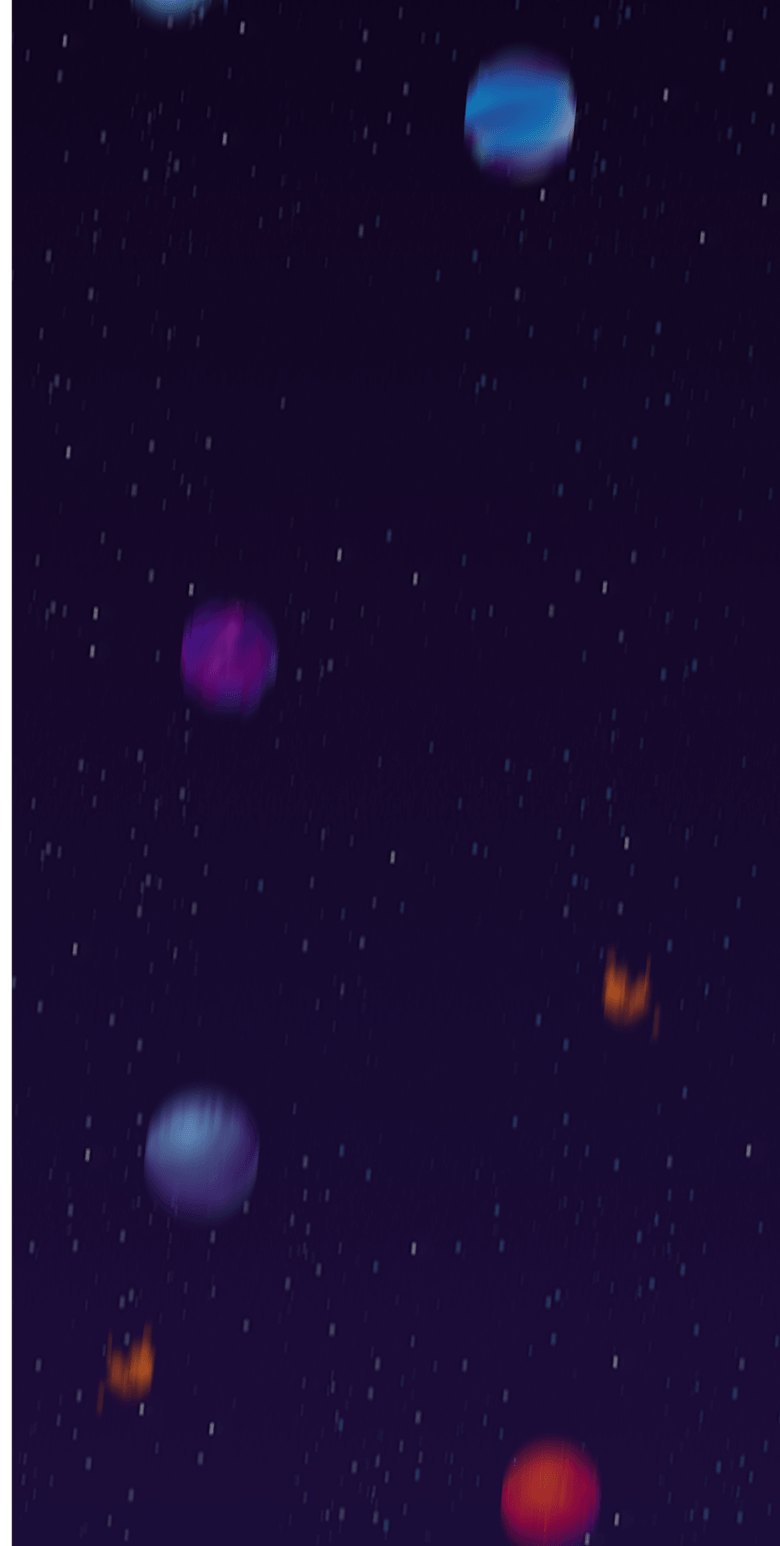
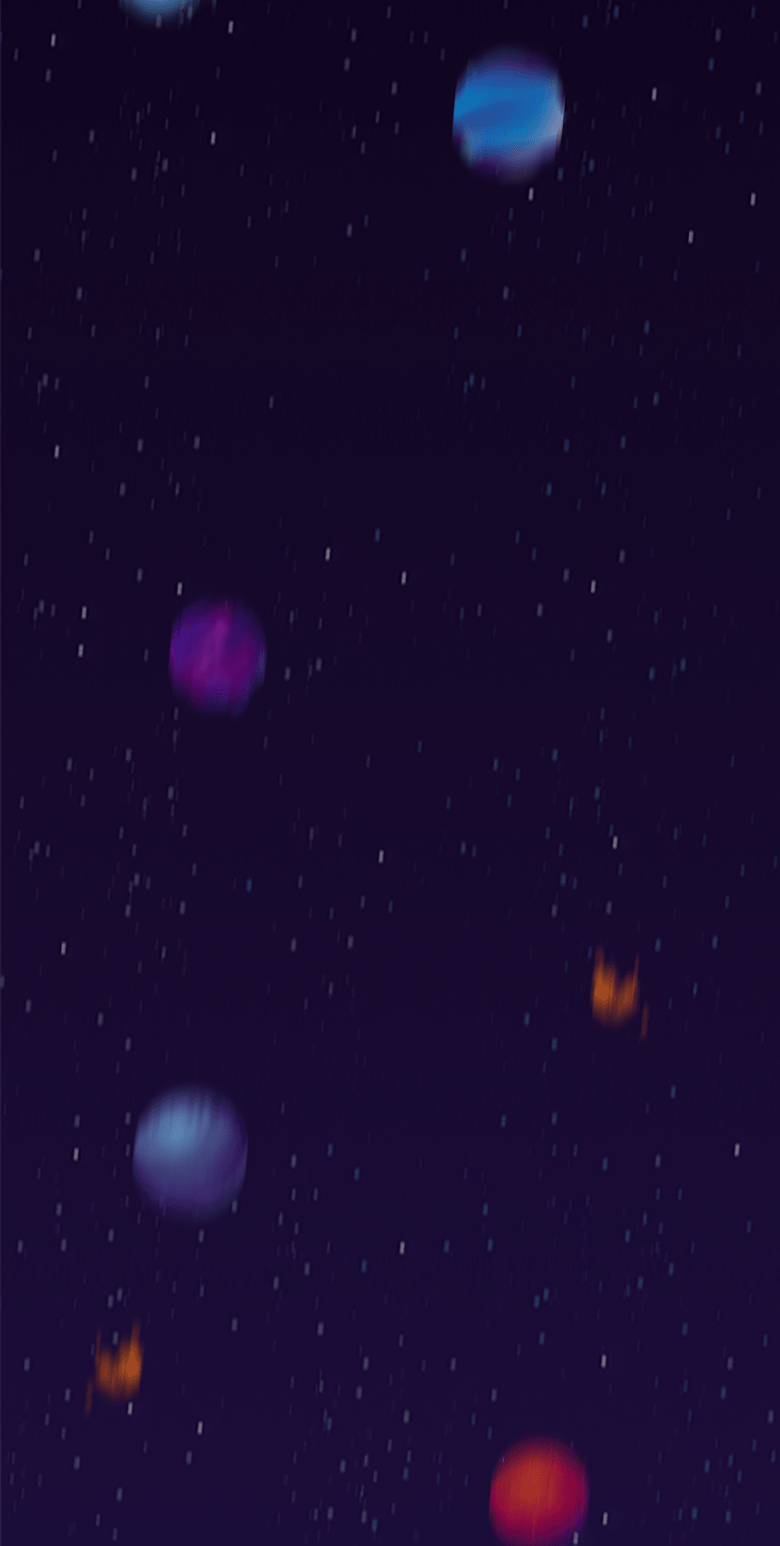
feat: убрал растягивание игры на мобилах scaleX, сохранил пропорции и растягивается только фон

diff --git a/app/modules/game/rocket-flight/components/rocket-flight-board/RocketFlightBoard.vue b/app/modules/game/rocket-flight/components/rocket-flight-board/RocketFlightBoard.vue
@@ -1,48 +1,50 @@
 <template>
-    <div class="relative h-full w-full overflow-hidden bg-[#130737] [container-type:inline-size]">
+    <div class="relative h-full w-full overflow-hidden bg-[#130737]">
         <div
-            class="absolute inset-0 bg-[#130737] transition-opacity duration-400"
+            class="duration-400 absolute inset-y-0 -left-px -right-px bg-[#130737] transition-opacity"
             :class="isBlurBackgroundVisible ? 'opacity-0' : 'opacity-100'"
             :style="backgroundStyle"
         />
         <div
-            class="absolute inset-0 bg-[#130737] transition-opacity duration-700"
+            class="absolute inset-y-0 -left-px -right-px bg-[#130737] transition-opacity duration-700"
             :class="isBlurBackgroundVisible ? 'opacity-100' : 'opacity-0'"
             :style="blurBackgroundStyle"
         />
 
-        <TopProgress :multiplier="multiplier" />
+        <div class="board-content-shell absolute inset-y-0 left-1/2 h-full w-full -translate-x-1/2 [container-type:inline-size]">
+            <TopProgress :multiplier="multiplier" />
 
-        <div class="absolute inset-0" :class="isIdleFloatActive ? 'board-idle-float' : ''">
-            <div class="absolute bottom-0 left-1/2 z-10 w-[90%] -translate-x-1/2 transition-all duration-300" :style="moonStyle">
-                <img class="block w-full" :src="moonImage" alt="" />
-                <div class="pointer-events-none absolute left-0 top-0 h-full w-full" aria-hidden="true">
-                    <div class="absolute top-[50%] h-[60%] w-[30%] rounded-[50%] bg-black/40" :style="moonShadowStyle" />
+            <div class="absolute inset-0" :class="isIdleFloatActive ? 'board-idle-float' : ''">
+                <div class="absolute bottom-0 left-1/2 z-10 w-[90%] -translate-x-1/2 transition-all duration-300" :style="moonStyle">
+                    <img class="block w-full" :src="moonImage" alt="" />
+                    <div class="pointer-events-none absolute left-0 top-0 h-full w-full" aria-hidden="true">
+                        <div class="absolute top-[50%] h-[60%] w-[30%] rounded-[50%] bg-black/40" :style="moonShadowStyle" />
+                    </div>
                 </div>
+
+                <FlightRocket
+                    :wrapper-style="rocketWrapperStyle"
+                    :long-flame-style="longFlameStyle"
+                    :long-flame-scale-y="longFlameScaleY"
+                    :fair-launch-t="fairLaunchT"
+                    :fair-mode="fairMode"
+                    :is-explosion-visible="isExplosionVisible"
+                    :is-crashed="phase === 'crashed'"
+                />
             </div>
 
-            <FlightRocket
-                :wrapper-style="rocketWrapperStyle"
-                :long-flame-style="longFlameStyle"
-                :long-flame-scale-y="longFlameScaleY"
-                :fair-launch-t="fairLaunchT"
-                :fair-mode="fairMode"
-                :is-explosion-visible="isExplosionVisible"
-                :is-crashed="phase === 'crashed'"
-            />
-        </div>
+            <FlightPlanets :phase="phase" :launch-progress="launchProgress" />
+            <FlightAsteroids :asteroids="props.asteroids" :phase="phase" :is-flying="phase === 'flying'" />
 
-        <FlightPlanets :phase="phase" :launch-progress="launchProgress" />
-        <FlightAsteroids :asteroids="props.asteroids" :phase="phase" :is-flying="phase === 'flying'" />
+            <div class="pointer-events-none absolute inset-0 -top-[30%] z-50 flex items-center justify-center">
+                <p v-if="isMultiplierVisible" class="text-game-2xl font-black text-white drop-shadow-[0_0.6cqw_1cqw_rgba(0,0,0,0.9)]">
+                    {{ multiplierText }}
+                </p>
+            </div>
 
-        <div class="pointer-events-none absolute inset-0 -top-[30%] z-50 flex items-center justify-center">
-            <p v-if="isMultiplierVisible" class="text-game-2xl font-black text-white drop-shadow-[0_0.6cqw_1cqw_rgba(0,0,0,0.9)]">
-                {{ multiplierText }}
-            </p>
-        </div>
-
-        <div v-if="phase === 'countdown'" class="absolute inset-0 z-[60] flex items-center justify-center text-game-2xl font-black text-white">
-            {{ countdownValue }}
+            <div v-if="phase === 'countdown'" class="absolute inset-0 z-[60] flex items-center justify-center text-game-2xl font-black text-white">
+                {{ countdownValue }}
+            </div>
         </div>
     </div>
 </template>
@@ -85,6 +87,16 @@
 </script>
 
 <style scoped>
+    .board-content-shell {
+        width: min(100%, calc(100svh / 2.04));
+    }
+
+    @supports not (height: 100svh) {
+        .board-content-shell {
+            width: min(100%, calc(100vh / 2.04));
+        }
+    }
+
     .board-idle-float {
         animation: board-idle-float 5.2s ease-in-out infinite;
         will-change: transform;

diff --git a/app/pages/index.vue b/app/pages/index.vue
@@ -2,8 +2,8 @@
     <div
         class="relative flex h-screen w-full touch-none items-center justify-center overflow-hidden [padding-bottom:env(safe-area-inset-bottom)] [padding-left:env(safe-area-inset-left)] [padding-right:env(safe-area-inset-right)] [padding-top:env(safe-area-inset-top)] supports-[height:100svh]:h-svh"
     >
-        <div ref="gameStretchShellRef" class="game-stretch-shell h-full">
-            <div ref="gameContainerRef" :style="gameContainerStyle" class="game-container relative flex flex-col overflow-hidden [container-type:inline-size]">
+        <div class="game-stretch-shell h-full">
+            <div class="game-container relative flex flex-col overflow-hidden [container-type:inline-size]">
                 <div class="relative min-h-0 w-full flex-1">
                     <RocketFlightBoard
                         :phase="phase"
@@ -18,8 +18,10 @@
                     />
                 </div>
 
-                <div class="w-full">
-                    <FooterBlock :phase="phase" @go="startRound" @stop="cashOut" />
+                <div class="footer-shell w-full">
+                    <div class="footer-content-shell">
+                        <FooterBlock :phase="phase" @go="startRound" @stop="cashOut" />
+                    </div>
                 </div>
             </div>
         </div>
@@ -34,7 +36,6 @@
     import { FooterBlock } from '~/modules/footer-panel'
 
     // Shared
-    import { useMobileGameStretch } from '~/shared/composables/utils/useMobileGameStretch'
     import OrientationOverlay from '~/shared/ui/orientation/OrientationOverlay.vue'
 
     // Bindings
@@ -42,7 +43,6 @@
     const { phase, countdownValue, multiplier, rocketXPercent, rocketDodgeNormalized, rocketScale, moonOffsetYPercent, asteroids, isExplosionVisible } =
         storeToRefs(rocketFlightStore)
     const { startRound, cashOut } = useRocketFlightFlow()
-    const { gameStretchShellRef, gameContainerRef, gameContainerStyle } = useMobileGameStretch({ mobileMaxWidth: 599 })
 </script>
 
 <style scoped>
@@ -52,23 +52,33 @@
         background: linear-gradient(180deg, #14073c 0%, #0e0629 100%);
     }
 
+    .footer-content-shell {
+        width: min(100%, calc(100svh / 2.04));
+        margin-inline: auto;
+    }
+
     @supports not (height: 100svh) {
         .game-container {
             width: min(100vw, calc(100vh / 2.04));
             height: min(100vh, calc(100vw * 2.04));
         }
+
+        .footer-content-shell {
+            width: min(100%, calc(100vh / 2.04));
+        }
     }
 
     @media (max-width: 599px) {
         .game-container {
-            width: min(100vw, calc(100svh / 2.04));
+            width: 100vw;
         }
 
         .game-stretch-shell {
             width: 100vw;
-            display: flex;
-            justify-content: center;
-            overflow: hidden;
+        }
+
+        .footer-shell {
+            background: linear-gradient(180deg, #ad83be 0%, #251c31 100%);
         }
     }
 </style>

diff --git a/app/modules/game/rocket-flight/components/rocket-flight-board/composables/use-rocket-flight-board.ts b/app/modules/game/rocket-flight/components/rocket-flight-board/composables/use-rocket-flight-board.ts
@@ -153,9 +153,7 @@ export const useRocketFlightBoard = (props: RocketFlightBoardProps) => {
 
     const blurBackgroundStyle = computed<Record<string, string>>(() => ({
         backgroundImage: `url(${backgroundStarsBlurImage})`,
-        // Увеличиваем фон по высоте, чтобы был запас для смещения,
-        // и двигаем только background-position, не сам слой.
-        backgroundSize: 'auto 140%',
+        backgroundSize: 'cover',
         backgroundRepeat: 'no-repeat',
         backgroundPosition: `center ${100 - blurParallaxOffsetPercent.value}%`
     }))
